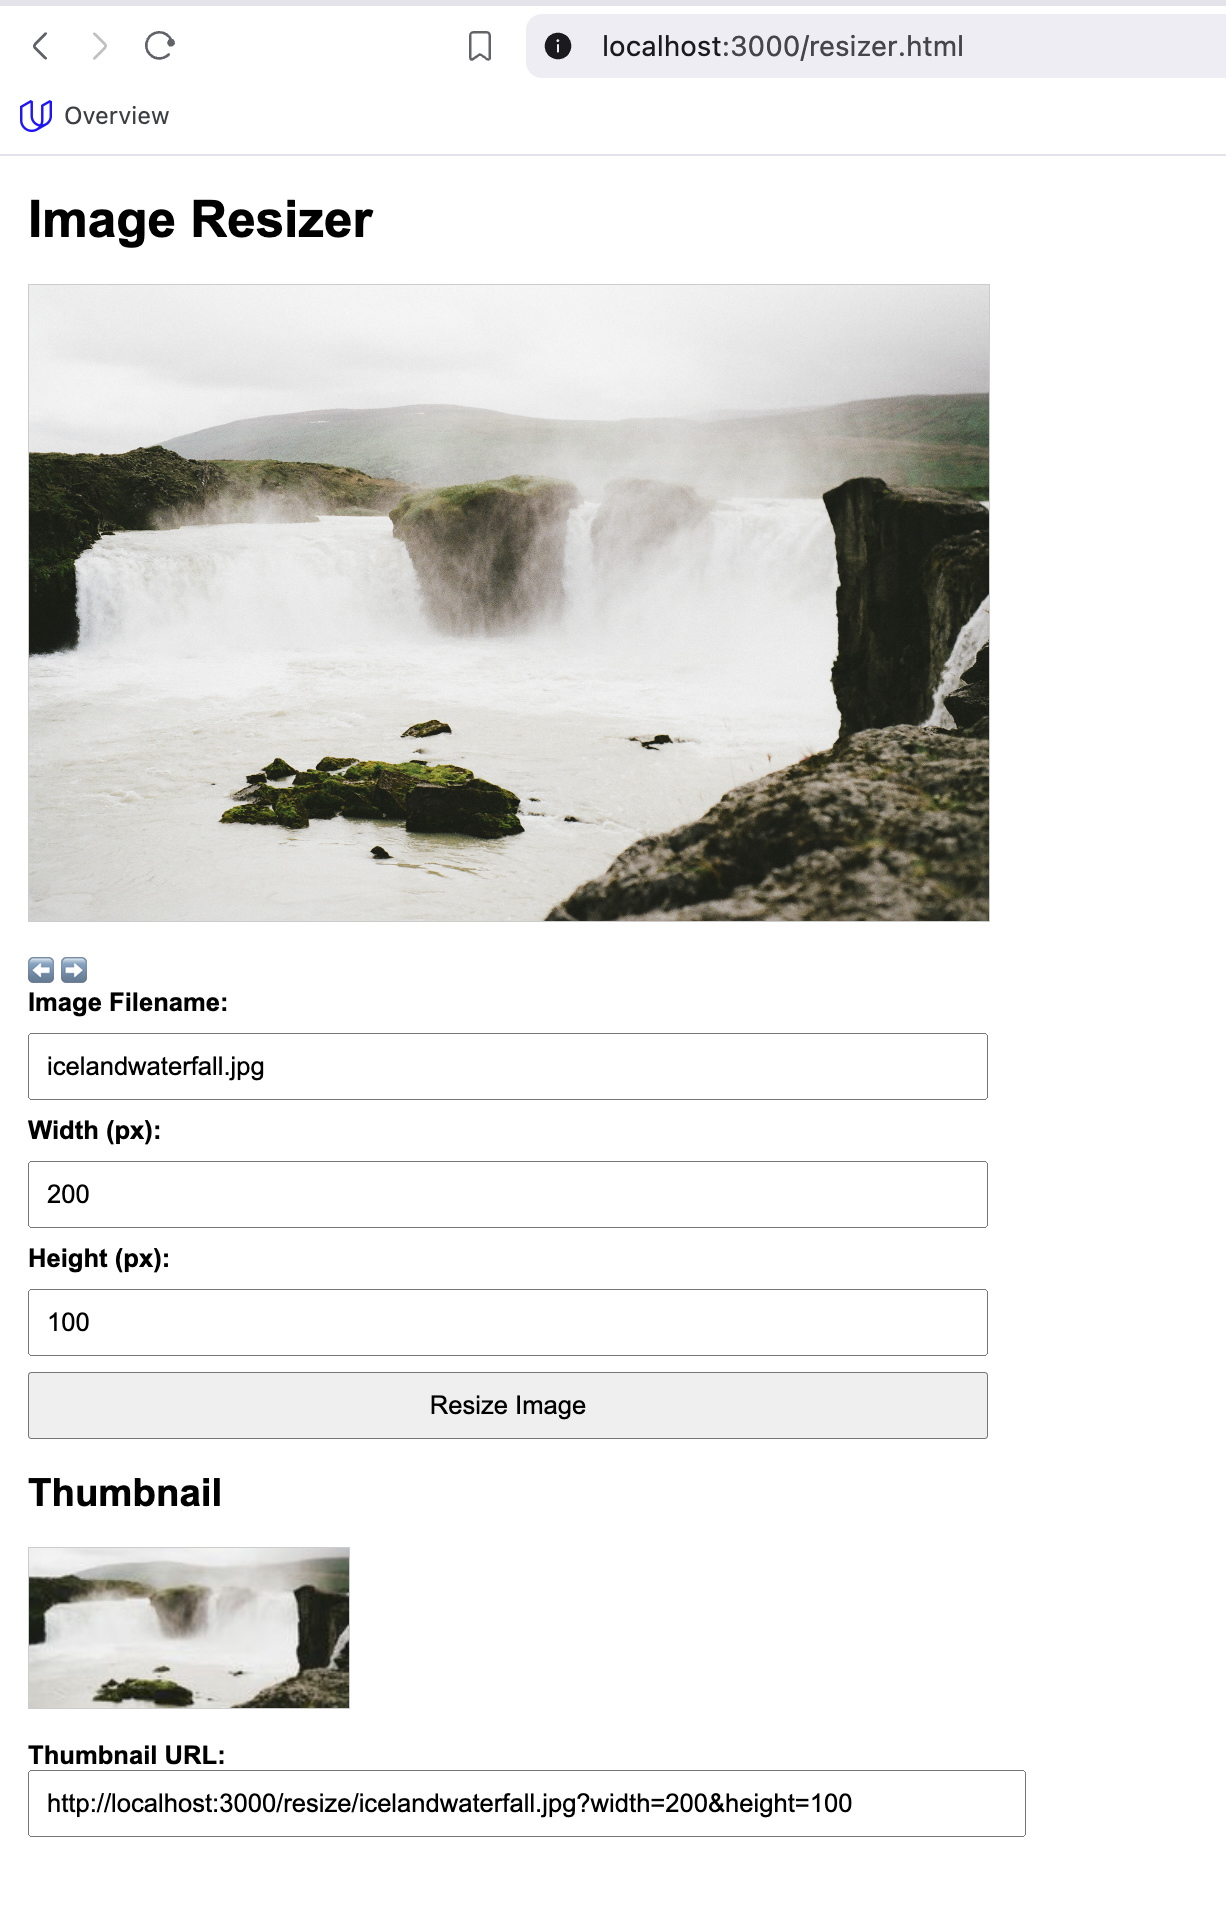
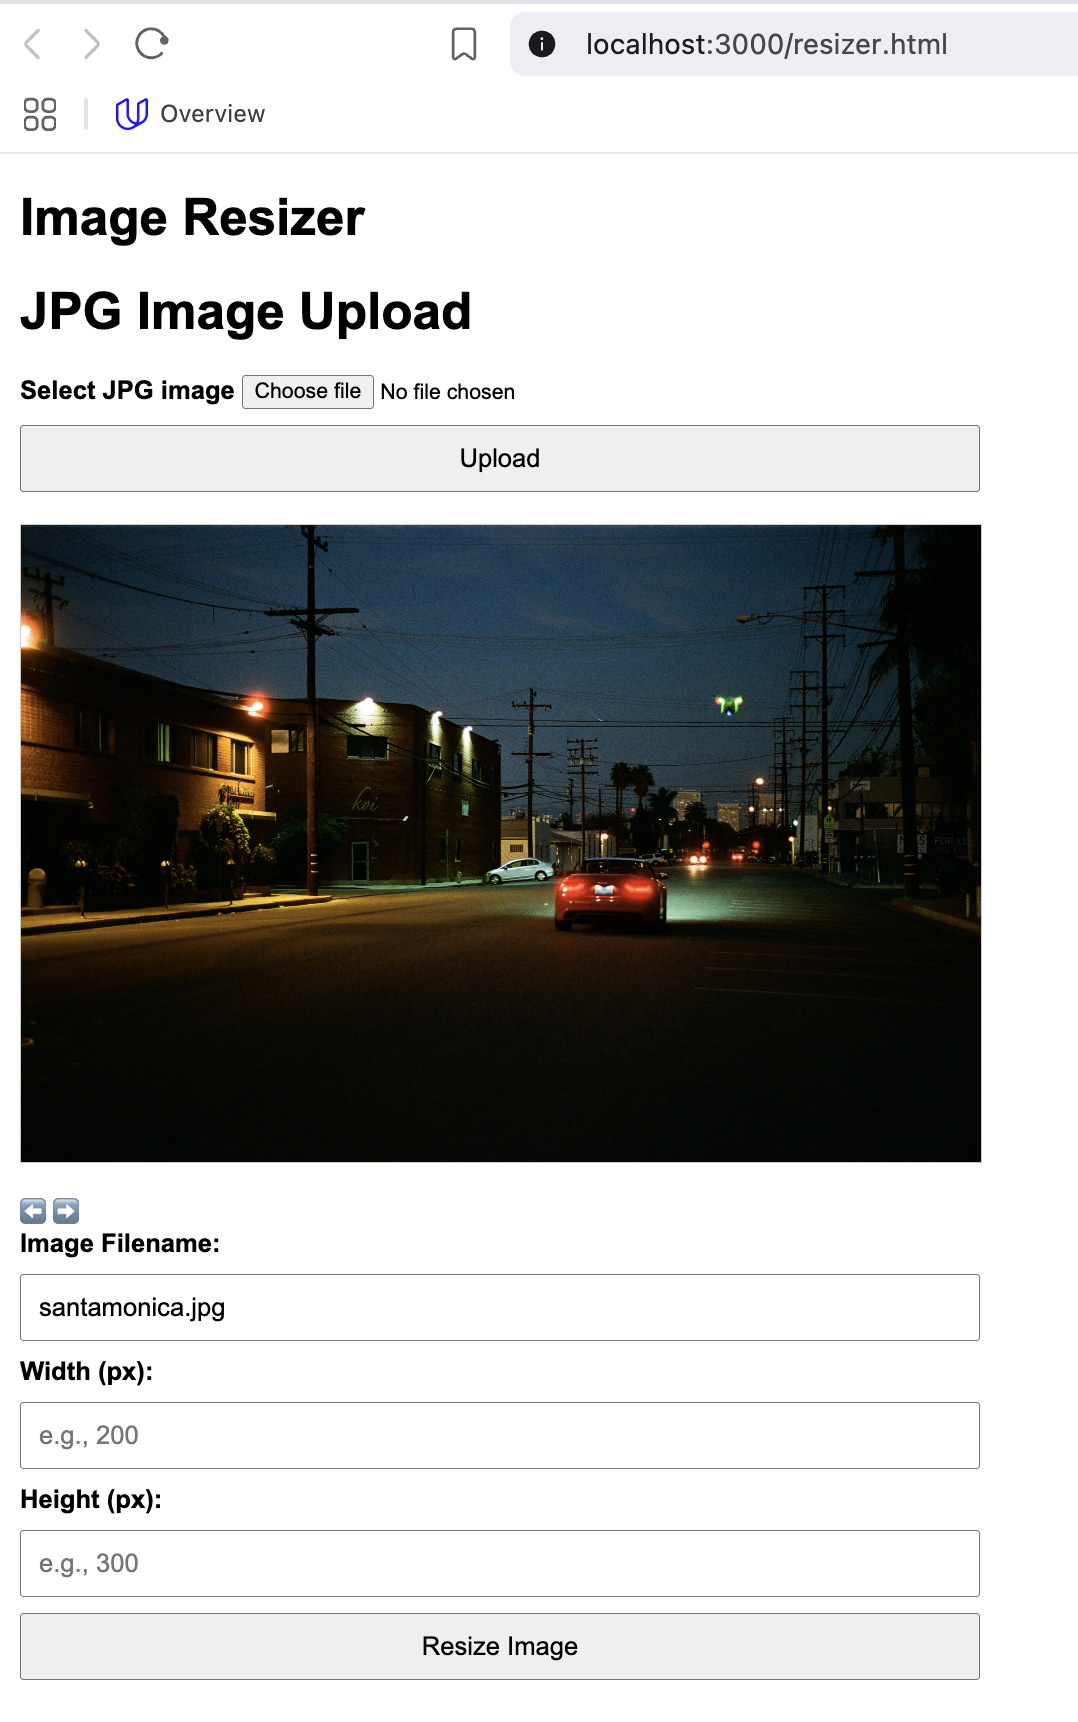
Doc: Update the README to include a section about the upload.

diff --git a/README.md b/README.md
@@ -85,12 +85,12 @@ This project provides a simple Node.js web server with the following features:
   - It is a different endpoint as the image one, and it implement the requested caching behaviour.
   - it also takes the image name as part of the URL, not as a parameter.
 
-### **Gallery Page**
+### Gallery Page
 The gallery page displays all the images in the `images` folder. Simply navigate to [http://localhost:3000](http://localhost:3000) to view the available images.
 
   ![image](udacity-typescript-image-project-screenshot-1.jpg)
 
-### **Image Resizer Page**
+### Image Resizer Page
 The resizer tool allows users to input the dimensions for resizing an image:
 
 1. Navigate to the Resizer Page: [http://localhost:3000/resizer.html](http://localhost:3000/resizer.html).
@@ -104,6 +104,11 @@ The resizer tool allows users to input the dimensions for resizing an image:
 6. The URL of the resized image will be printed in a text box (e.g., `http://localhost:3000/resize/encenadaport.jpg?width=300&height=200`) under the Thumbnail,
    this URL can be used to reuse the thumbnail in other pages
 
+#### Uploading JPegs
+
+The new version allows user to upload files to the application, for this just chose the file and hit the upload button.
+
+After the picture is uploaded the Gallery will navigate to that picture automatically.
 
 ---
 
